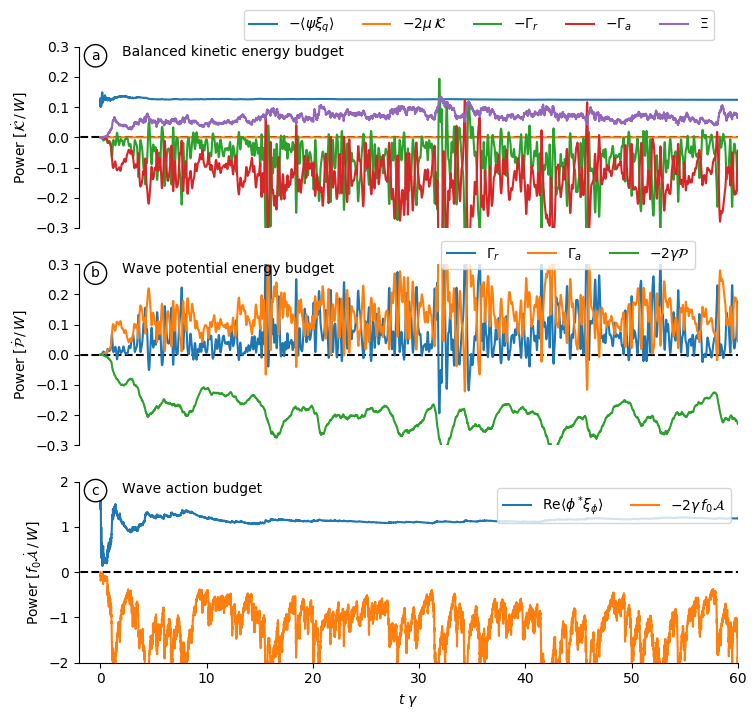
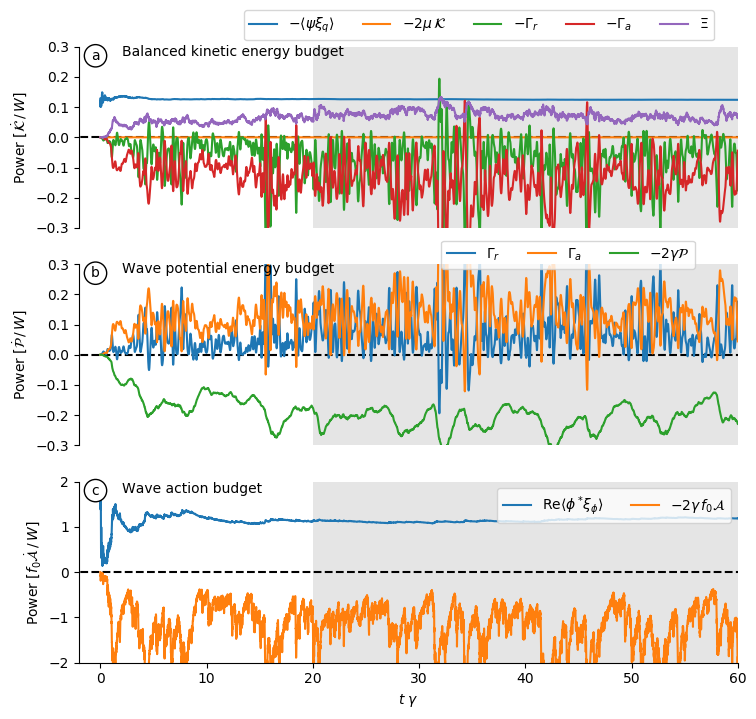
Update figs

Changed region(s): [[0.3955, 0.0612, 0.9735, 0.3366], [0.3955, 0.3672, 0.9735, 0.6426], [0.3955, 0.6732, 0.9735, 0.9485]]

diff --git a/code/CompareDiagnostics.py b/code/CompareDiagnostics.py
@@ -134,6 +134,8 @@ plt.text(47,1.28,'No drag')
 plt.text(33,0.1,'Reference')
 plt.text(15,0.575,'No waves')
 
+plt.axvspan(20, 60, facecolor='k', alpha=0.1)
+
 ax = fig.add_subplot(312)
 plt.plot(time,(diags_reference['pe_niw'][:])/E,label=r'Reference',color=pk[0].get_color())
 plt.plot(time,(diags_nodrag['pe_niw'][:])/E,label=r'No drag',color=pp[0].get_color())
@@ -147,6 +149,8 @@ remove_axes(ax,bottom=True)
 plt.text(47,0.3,'No drag')
 plt.text(28,0.04,'Reference')
 
+plt.axvspan(20, 60, facecolor='k', alpha=0.1)
+
 ax = fig.add_subplot(313)
 plt.plot([-5,65],[Ew,Ew]/E,'k--')
 plt.plot(time,(diags_reference['ke_niw'][:])/E,label=r'Reference',color=pk[0].get_color())
@@ -156,6 +160,9 @@ plt.xlabel(r"Time $[t\,\,\gamma]$")
 plt.xlim(-2,60)
 remove_axes(ax)
 plt.ylim(0,3.5)
+
+plt.axvspan(20, 60, facecolor='k', alpha=0.1)
+
 plt.yticks([0,1.0,2.0,3.0],["0.0","1.0","2.0","3.0"])
 plot_fig_label(ax,xc=0.025,yc=0.95,label=r'$\mathcal{A}$')
 plt.savefig(patho+'energies_comparison' , pad_inces=0, bbox_inches='tight')
@@ -187,6 +194,7 @@ plt.plot(time,diags_reference['ep_psi'][:]/POWER,label=r'$-2\mu\,\mathcal{K}$')
 plt.plot(time,-(signal.filtfilt(B,A,diags_reference['gamma_r'][:]))/POWER,label=r'$-\Gamma_r$')
 plt.plot(time,-(signal.filtfilt(B,A,diags_reference['gamma_a'][:]))/POWER,label=r'$-\Gamma_a$')
 plt.plot(time,(diags_reference['xi_a'][:]+diags_reference['xi_r'][:])/POWER,label=r'$\Xi$')
+
 plt.legend(loc=(0.25,1.035),ncol=5)
 plt.ylabel(r"Power [$\dot \mathcal{K} \,/\, W$]")
 plt.ylim(-.17,.17)
@@ -194,6 +202,8 @@ plt.xlim(-2,60)
 remove_axes(ax,bottom=True)
 plt.text(2,.145,'Balanced kinetic energy budget')
 plot_fig_label(ax,xc=0.025,yc=0.95,label='a')
+
+plt.axvspan(20, 60, facecolor='k', alpha=0.1)
 
 ax = fig.add_subplot(312)
 plt.plot([-5,65],[0,0],'k--')
@@ -208,6 +218,8 @@ plot_fig_label(ax,xc=0.025,yc=0.95,label='b')
 plt.xlim(-2,60)
 plt.text(2,.145,'Wave potential energy budget')
 
+plt.axvspan(20, 60, facecolor='k', alpha=0.1)
+
 ax = fig.add_subplot(313)
 plt.plot([-5,65],[0,0],'k--')
 plt.plot(time,diags_reference['Work_w']/(time/gamma)/POWER,label=r'Re$\leftangle \phi^*\!\xi_\phi\rightangle$')
@@ -220,7 +232,12 @@ plt.xlim(-2,60)
 remove_axes(ax)
 plot_fig_label(ax,xc=0.025,yc=0.95,label='c')
 plt.text(2,1.75,'Wave action budget')
+
+plt.axvspan(20, 60, facecolor='k', alpha=0.1)
+
 plt.savefig(patho+'K_and_P_and_A_budget_reference', pad_inces=0, bbox_inches='tight')
+
+
 
 # no-drag
 fig = plt.figure(figsize=(8.5,8.))
@@ -239,6 +256,8 @@ remove_axes(ax,bottom=True)
 plt.text(2,.27,'Balanced kinetic energy budget')
 plot_fig_label(ax,xc=0.025,yc=0.95,label='a')
 
+plt.axvspan(20, 60, facecolor='k', alpha=0.1)
+
 ax = fig.add_subplot(312)
 plt.plot([-5,65],[0,0],'k--')
 plt.plot(time,(signal.filtfilt(B,A,diags_nodrag['gamma_r'][:]))/POWER,label=r'$\Gamma_r$')
@@ -252,6 +271,8 @@ plot_fig_label(ax,xc=0.025,yc=0.95,label='b')
 plt.xlim(-2,60)
 plt.text(2,.27,'Wave potential energy budget')
 
+plt.axvspan(20, 60, facecolor='k', alpha=0.1)
+
 ax = fig.add_subplot(313)
 plt.plot([-5,65],[0,0],'k--')
 plt.plot(time,diags_nodrag['Work_w']/(time/gamma)/POWER,label=r'Re$\leftangle \phi^*\!\xi_\phi\rightangle$')
@@ -264,8 +285,10 @@ plt.xlim(-2,60)
 remove_axes(ax)
 plot_fig_label(ax,xc=0.025,yc=0.95,label='c')
 plt.text(2,1.75,'Wave action budget')
-plt.savefig(patho+'K_and_P_and_A_budget_nodrag.png', pad_inces=0, bbox_inches='tight')
 
+plt.axvspan(20, 60, facecolor='k', alpha=0.1)
+
+plt.savefig(patho+'K_and_P_and_A_budget_nodrag.png', pad_inces=0, bbox_inches='tight')
 
 #
 # calculate average budget after equilibration 
